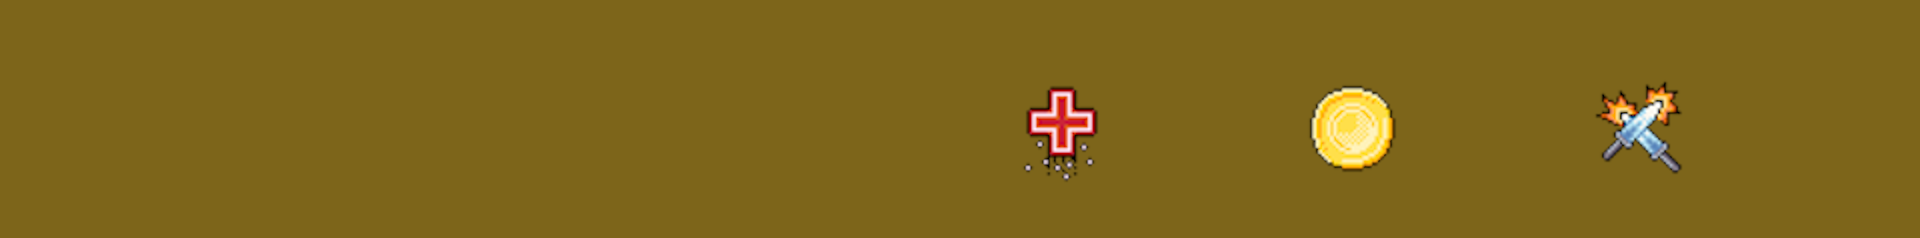
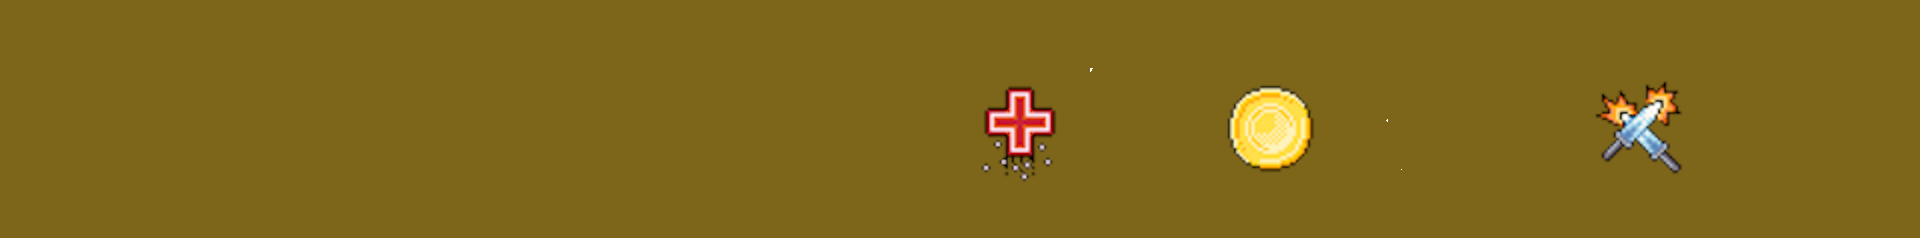
[MOD] | New position of interface + score system

Changed region(s): [[0.625, 0.3529, 0.75, 0.7353], [0.5, 0.3529, 0.5938, 0.7647]]

diff --git a/src/tower/init_board.c b/src/tower/init_board.c
@@ -36,8 +36,8 @@ void draw_board(sfRenderWindow *window, game_object_t *object)
 board_t *config_board_text(board_t *info)
 {
     info->wave->text = init_text(info->wave->score_text, 1700, 840, (char *) FONT_PATH);
-    info->life->text = init_text(info->life->score_text, 1125, 840, (char *) FONT_PATH);
-    info->points->text = init_text(info->points->score_text, 1400, 840,(char *) FONT_PATH);
+    info->life->text = init_text(info->life->score_text, 1070, 840, (char *) FONT_PATH);
+    info->points->text = init_text(info->points->score_text, 1325, 840,(char *) FONT_PATH);
     sfText_setCharacterSize(info->points->text, 70);
     sfText_setCharacterSize(info->life->text, 70);
     sfText_setCharacterSize(info->wave->text, 70);
@@ -55,7 +55,7 @@ board_t *create_board_text(board_t *info)
         return (NULL);
     info->wave->score = 0;
     info->life->score = 10;
-    info->points->score = 0;
+    info->points->score = 1000;
     tmp = my_nbr_to_str(info->wave->score);
     info->wave->score_text = my_strcat((char *)"Wave : ", tmp);
     free(tmp);

diff --git a/src/tower/get_money.c b/src/tower/get_money.c
@@ -1,0 +1,28 @@
+/*
+** EPITECH PROJECT, 2020
+** MUL_my_defender_2019
+** File description:
+** create_tower
+*/
+
+#include "my_defender.h"
+#include "tower.h"
+#include <stdlib.h>
+#include <unistd.h>
+#include <fcntl.h>
+#include <sys/stat.h>
+
+int update_money(game_object_t *object, int price)
+{
+    game_object_t *tmp = NULL;
+    board_t *info = NULL;
+    int check = 0;
+
+    for (tmp = object; tmp && tmp->type != TOWER_BOARD; tmp = tmp->next);
+    if (!tmp)
+        return (0);
+    info = (board_t *) tmp->extend;
+    if (info->points->score >= price)
+        increase_board_value(info->points, price * - 1, "Points : ");
+    return (info->points->score);
+}

diff --git a/include/tower.h b/include/tower.h
@@ -21,6 +21,7 @@ typedef struct board_s {
     score_t *wave;
     score_t *life;
     score_t *points;
+    int cost[3][3];
 } board_t;
 
 typedef struct tower_s {
@@ -47,5 +48,6 @@ void create_range_circle(game_object_t *);
 void draw_range_circle(game_object_t *, void *);
 void set_bullet_vector(game_object_t *object, game_object_t *direction);
 game_object_t *create_bullet(game_object_t *last, sfVector2f pos, tower_type_t type, game_object_t *);
+int update_money(game_object_t *object, int price);
 
 #endif /* !TOWER_H_ */

diff --git a/src/tower/vector_shoot.c b/src/tower/vector_shoot.c
@@ -30,10 +30,8 @@ void set_bullet_vector(game_object_t *object, game_object_t *direction)
 
     direction_y = object->pos.y - direction->pos.y;
     direction_x = object->pos.x - direction->pos.x;
-    printf("%f", atan2(direction_x, direction_y));
     shooting_dir.y = sin(atan2(direction_y, direction_x)) * - 10;
     shooting_dir.x = cos(atan2(direction_y, direction_x)) * - 10;
-    printf("%f / %f\n", shooting_dir.x, shooting_dir.y);
     object->move = shooting_dir;
 }
 

diff --git a/src/tower/create_tower.c b/src/tower/create_tower.c
@@ -91,6 +91,10 @@ tower_type_t type)
 
     if (tower == NULL)
         return (NULL);
+    if (tower->cost > update_money(last, tower->cost)) {
+        free(tower);
+        return (NULL);
+    }
     object = create_game_object(last, path, pos, TOWER);
     free(path);
     if (object == NULL)

diff --git a/src/ennemy/init_wave.c b/src/ennemy/init_wave.c
@@ -80,7 +80,6 @@ game_object_t *init_wave(game_object_t *last)
     object->update = &update_wave;
     object->extend = (void *) compute_path();
     if (object->extend == NULL) {
-        printf("NUL\n");
         free(object);
         return (NULL);
     }
